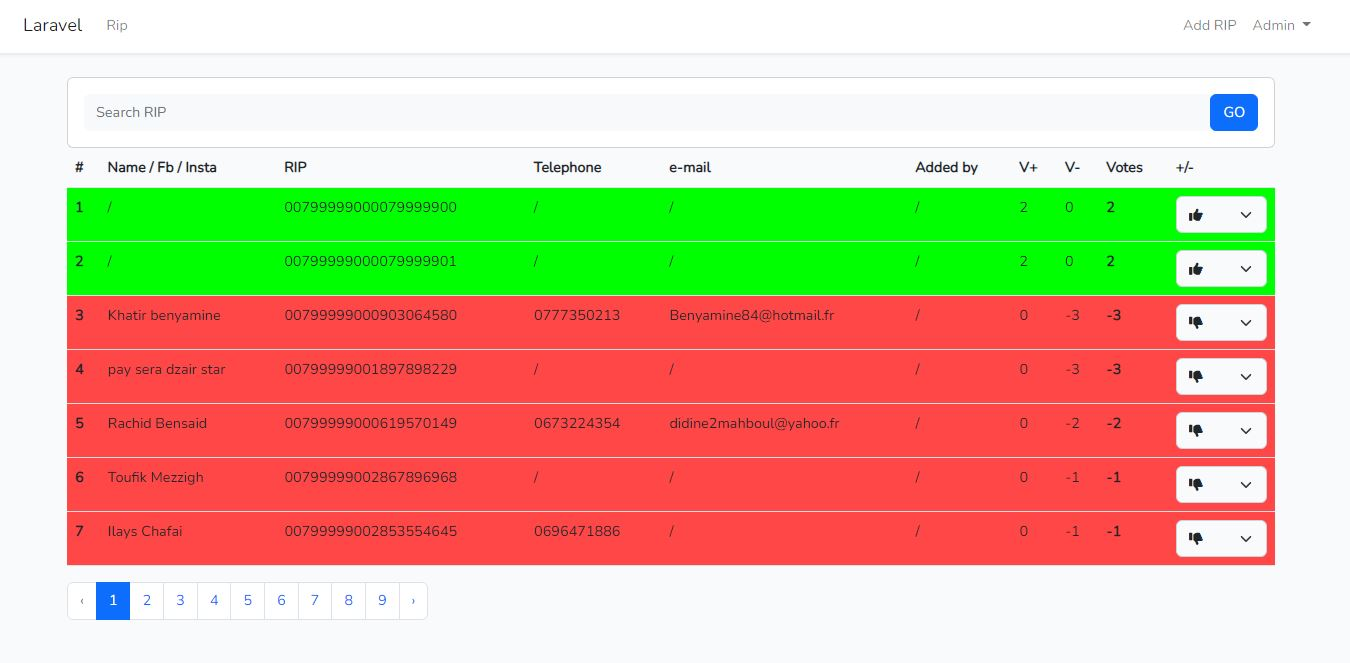
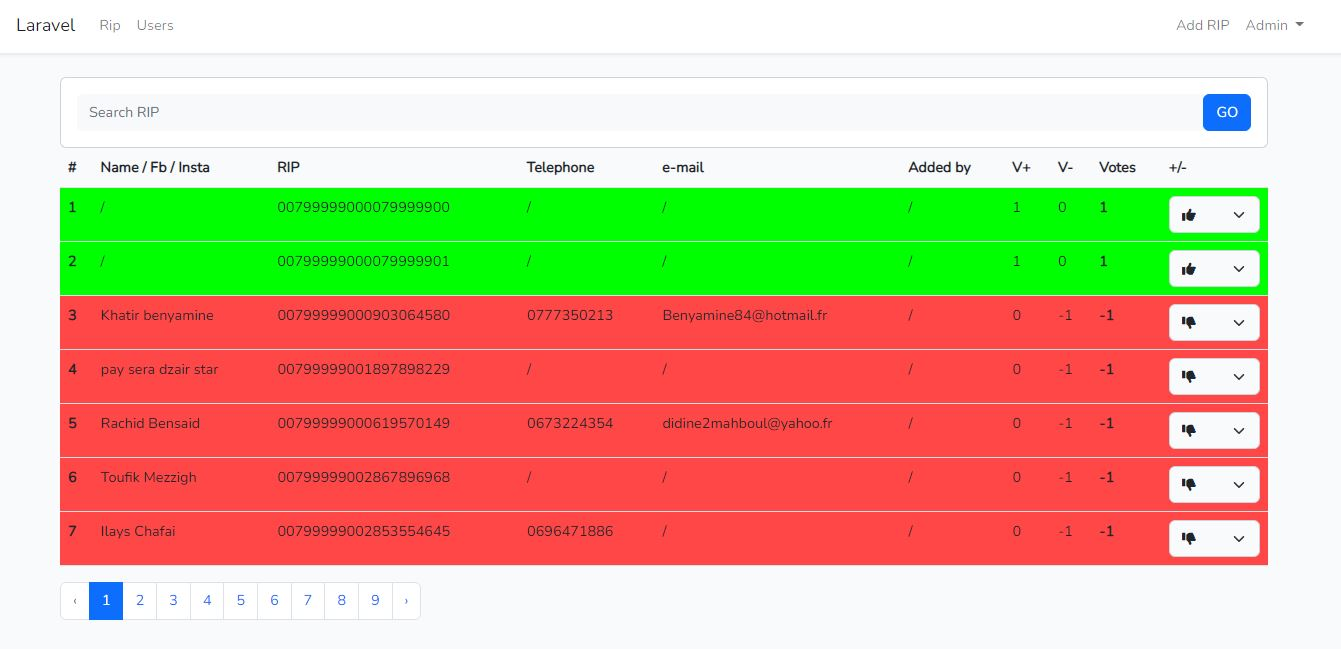
update readme

diff --git a/README.md b/README.md
@@ -11,6 +11,7 @@
 
 <h3>Admin:</h3>
     <img src="https://github.com/mostfa16/Laravel_rip_check/blob/master/Screenshots/admin.JPG?raw=true" style=' display:flex; margin-bottom:20px'>
+    <img src="https://github.com/mostfa16/Laravel_rip_check/blob/master/Screenshots/admin_users.JPG?raw=true" style=' display:flex; margin-bottom:20px'>
  <h3>Manager:</h3>   
     <img src="https://github.com/mostfa16/Laravel_rip_check/blob/master/Screenshots/manager.JPG?raw=true" style=' display:flex; margin-bottom:20px'>
 <h3>Simple User:</h3>
